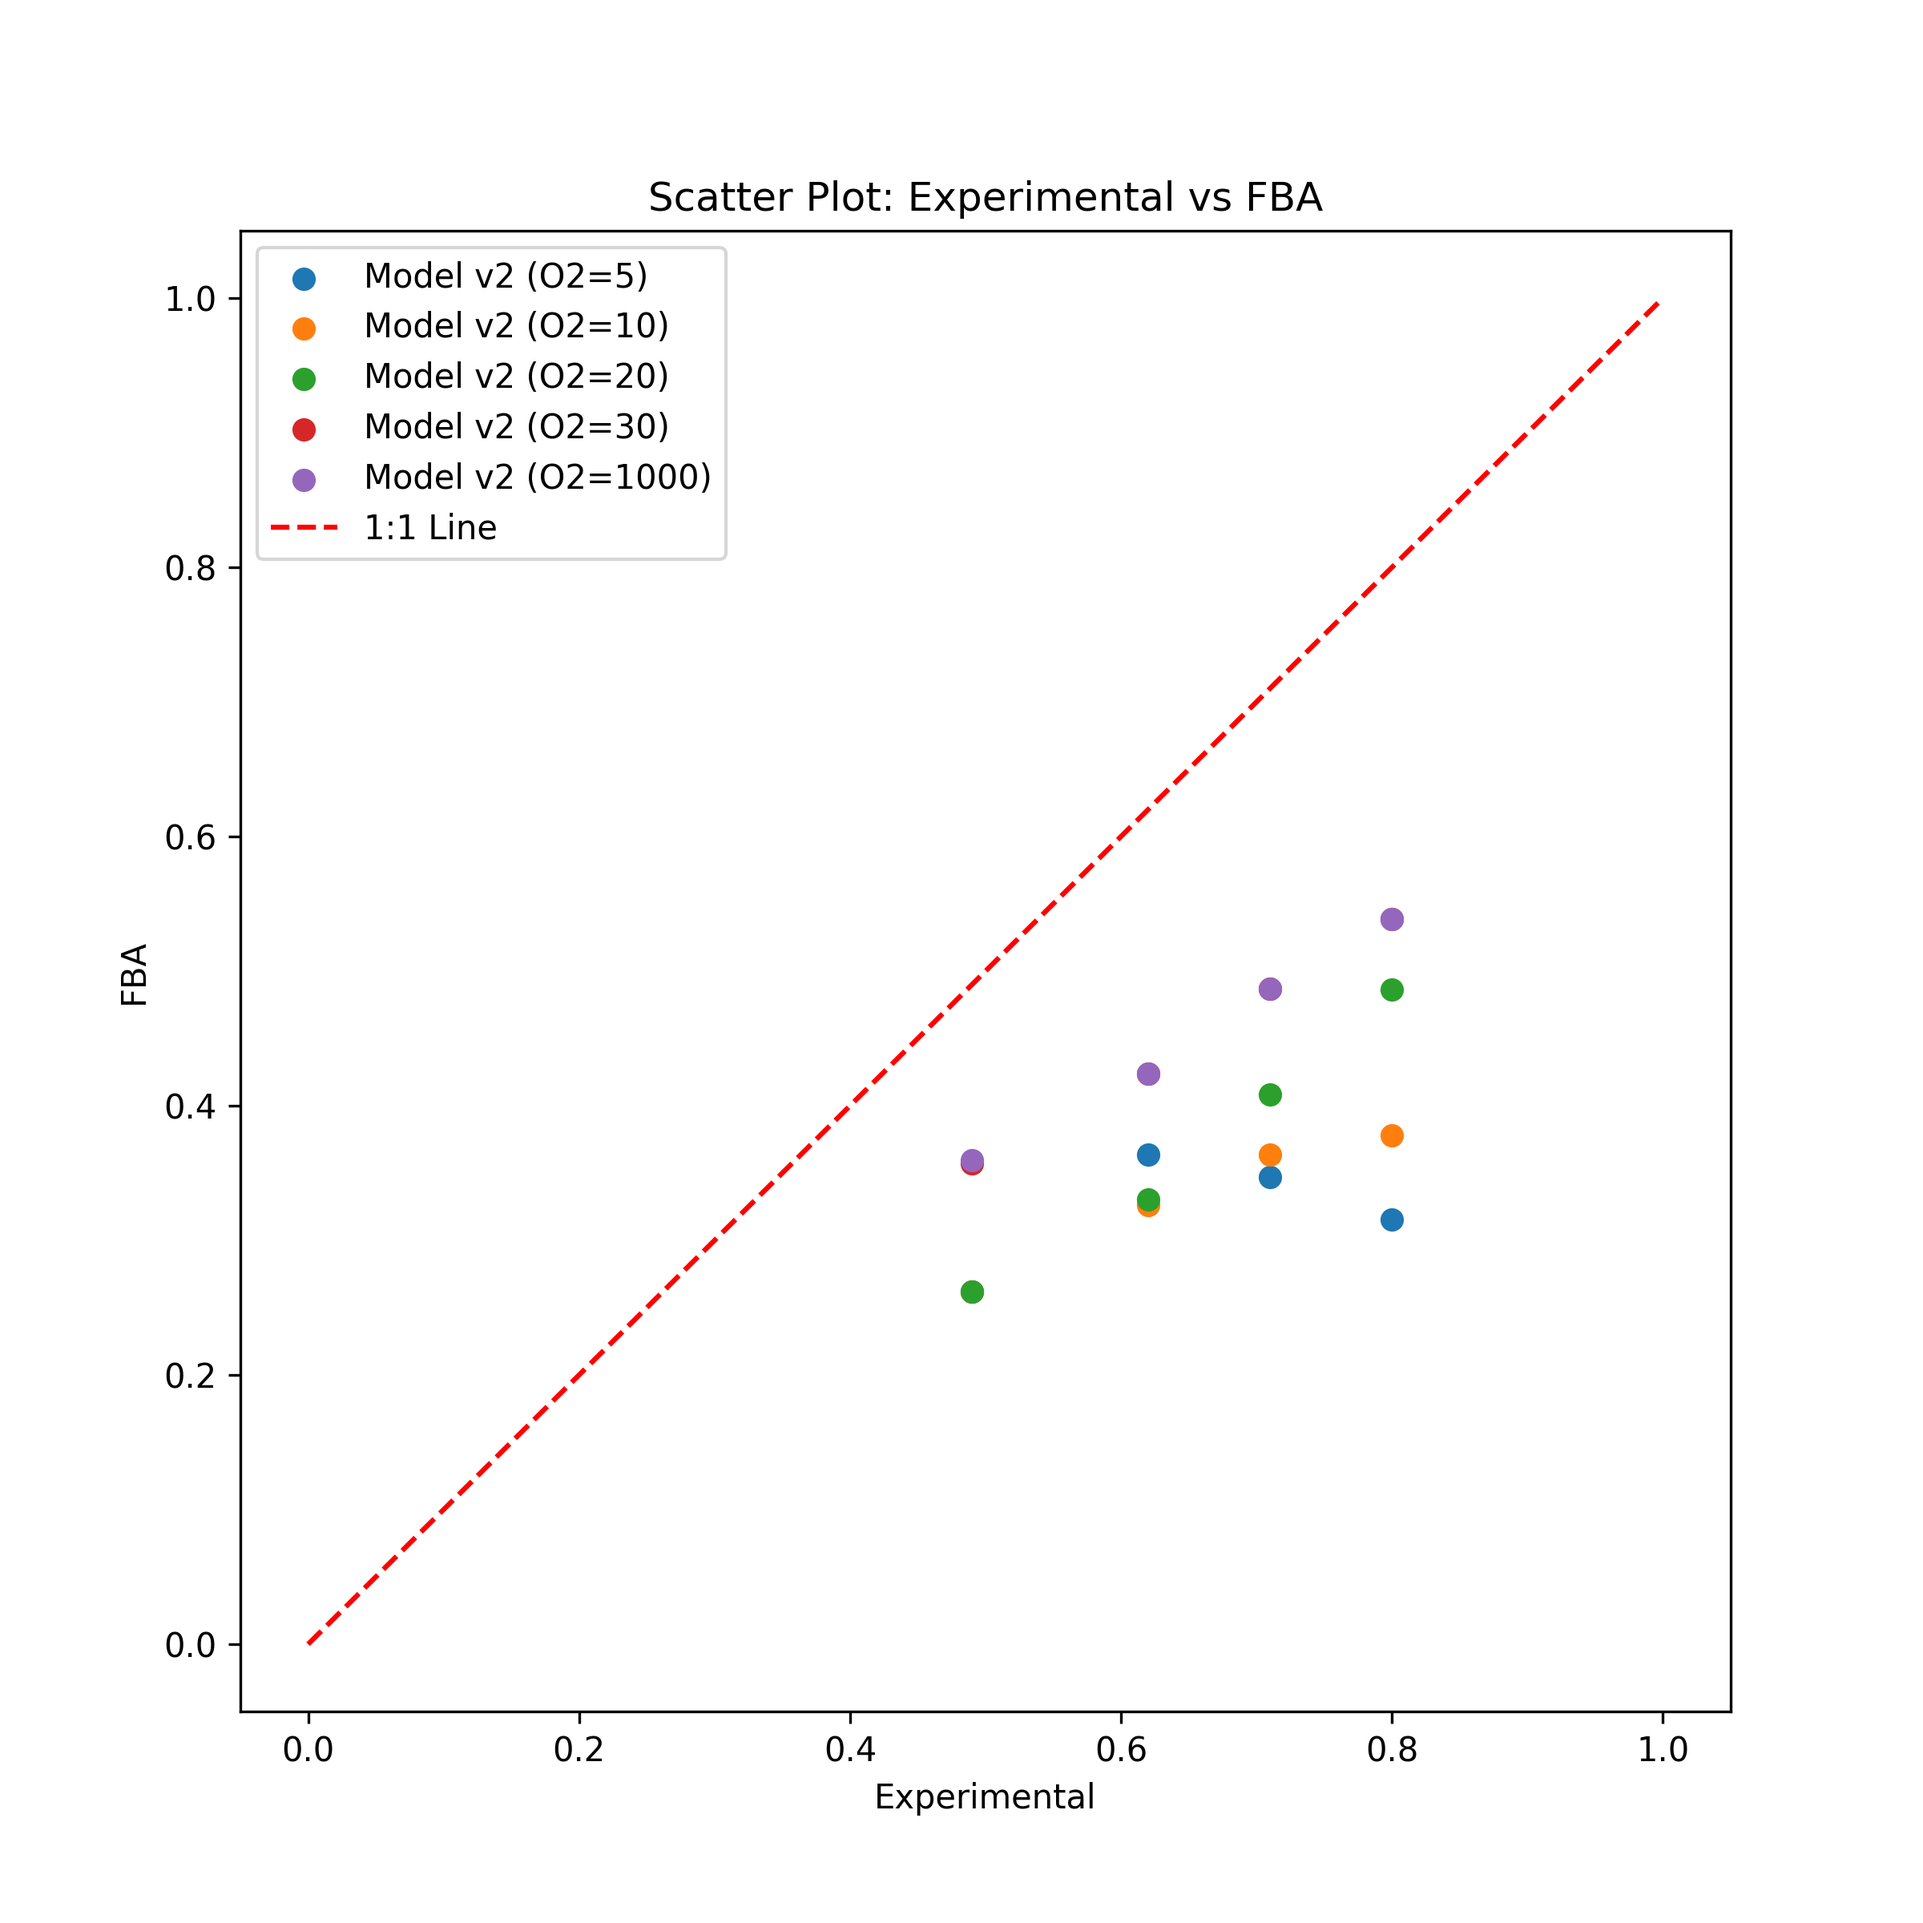
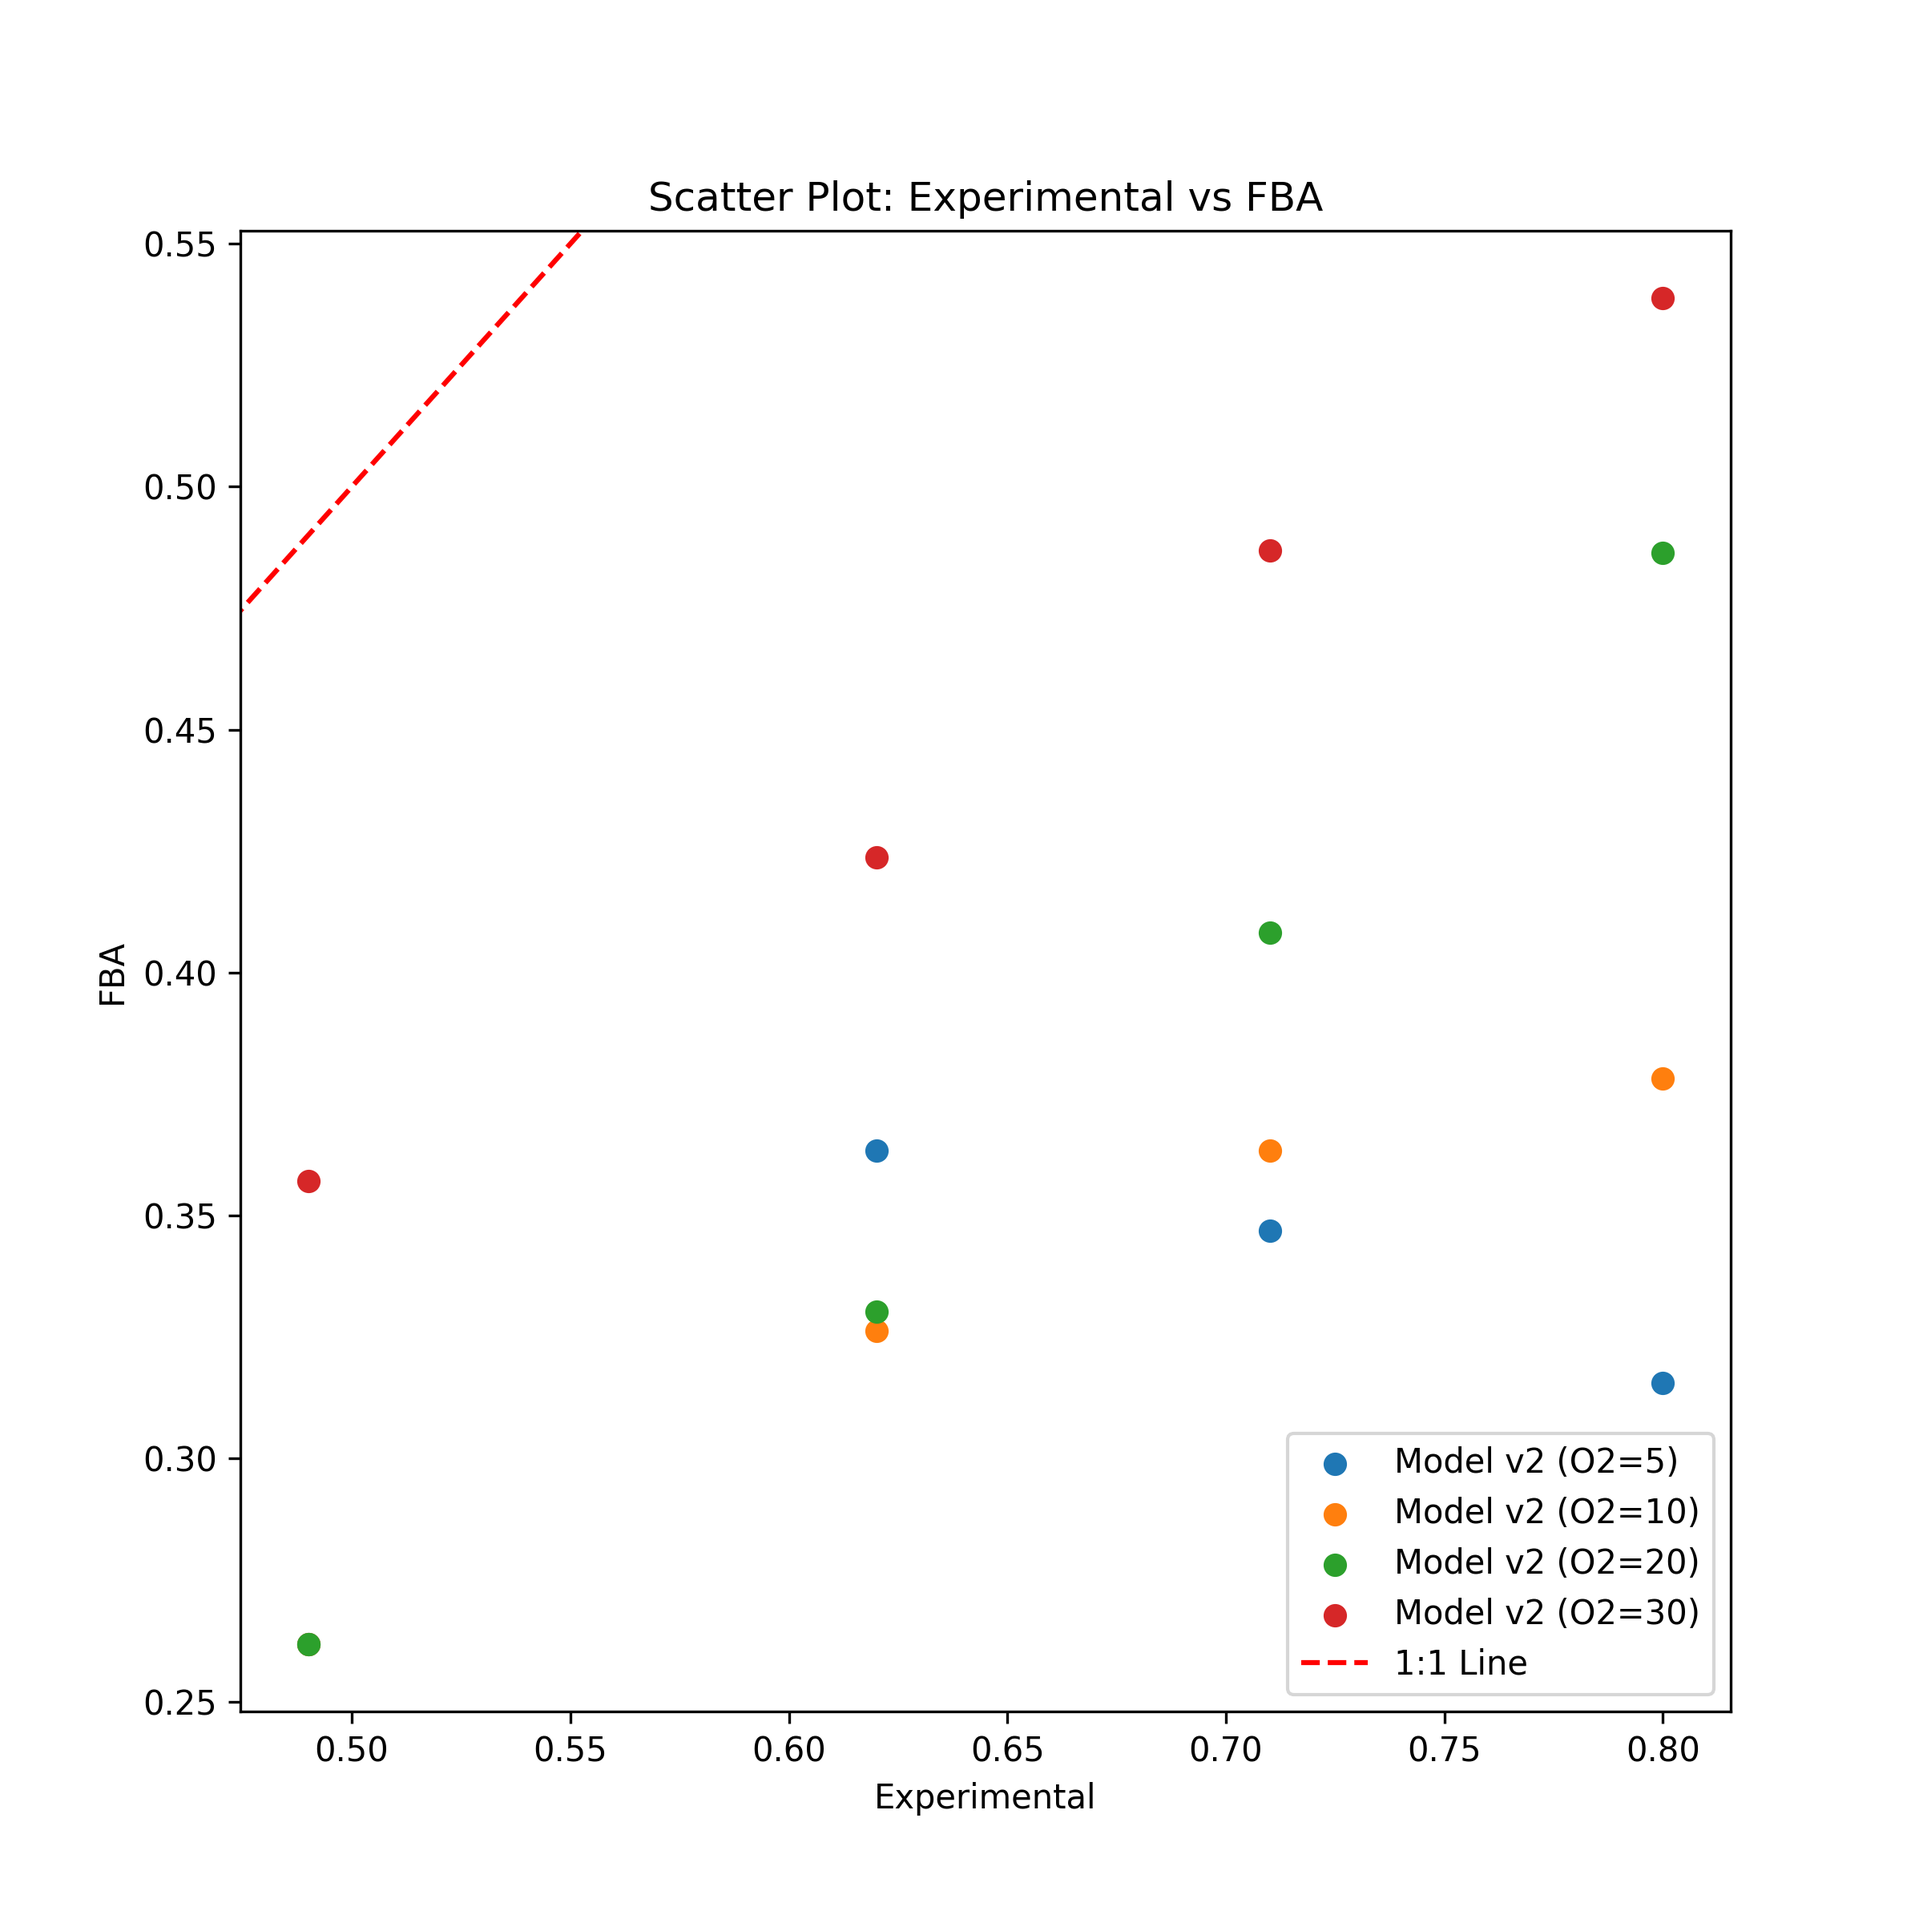
style: zoom in on the scatterpoints

diff --git a/mit1002_full/glc_and_ace/vs_experimental/plot_exp_vs_pred_cue.py b/mit1002_full/glc_and_ace/vs_experimental/plot_exp_vs_pred_cue.py
@@ -82,10 +82,16 @@ plt.scatter(gge_df_transposed["Experimental"],
             label="Model v2 (O2=20)")
 plt.scatter(gge_df_transposed["Experimental"],
             gge_df_transposed["FBA (O2=30)"],
-            label="Model v2 (O2=30)")
-plt.scatter(gge_df_transposed["Experimental"],
-            gge_df_transposed["FBA (O2=1000)"],
-            label="Model v2 (O2=1000)")
+            label="Model v2 (O2=30)"
+            )
+# Not plotting the O2=1000 data because it is an exact overlap of O2=30
+
+# Save what the bounds are for the axes
+# Get the current axis
+ax = plt.gca()
+# Get the x-axis and y-axis limits
+x_limits = ax.get_xlim()
+y_limits = ax.get_ylim()
 
 # # Add a line of best fit
 # # Calculate the coefficients for the line of best fit
@@ -100,6 +106,11 @@ plt.scatter(gge_df_transposed["Experimental"],
 x = [0, 1]
 y = [0, 1]
 plt.plot(x, y, color="red", linestyle="--", label="1:1 Line")
+
+# Reset the limits to be what they were before
+# (the automatic settings from the scatter plots without the 1:1 line)
+ax.set_xlim(x_limits)
+ax.set_ylim(y_limits)
 
 # Add labels and title
 plt.xlabel("Experimental")
